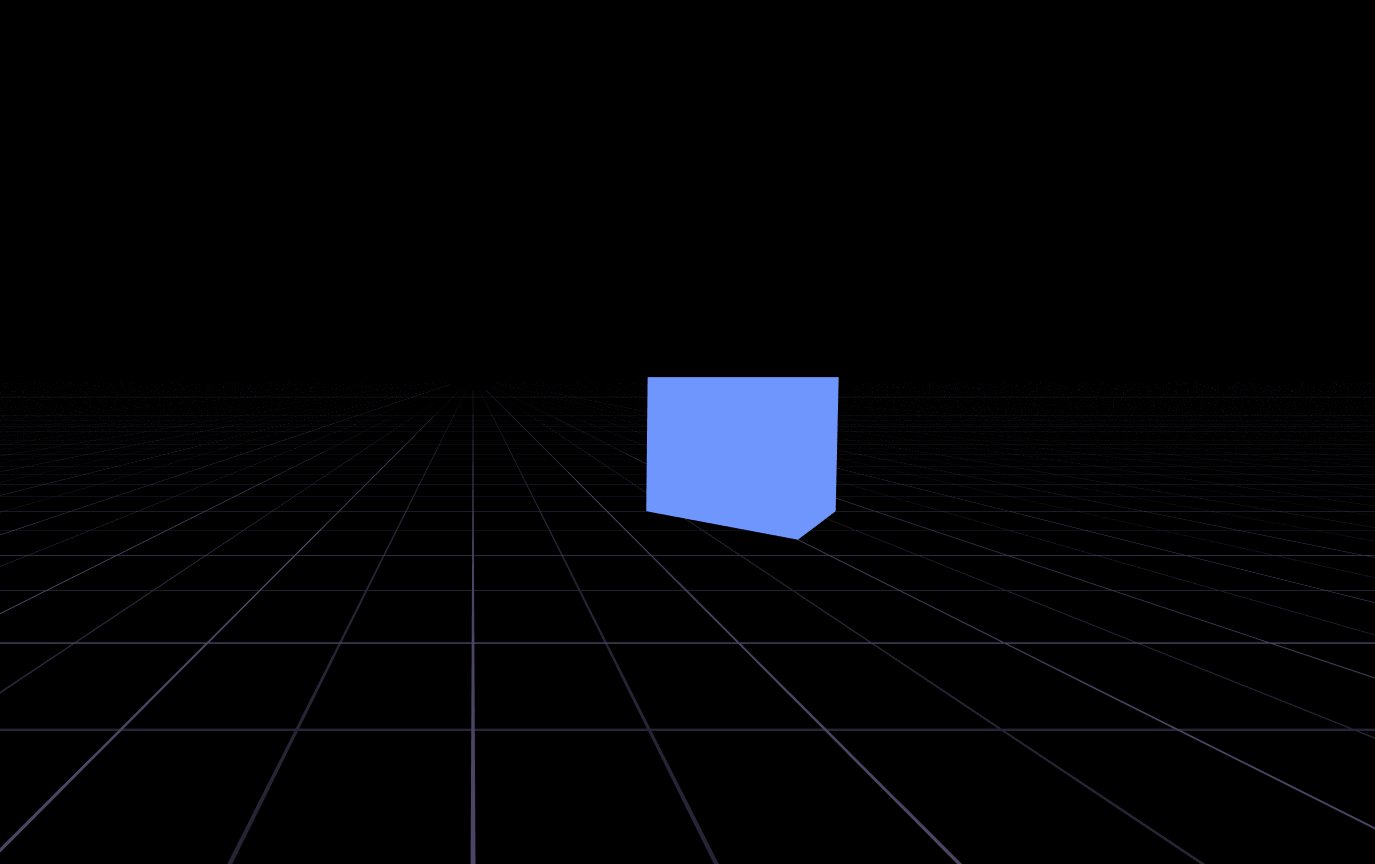
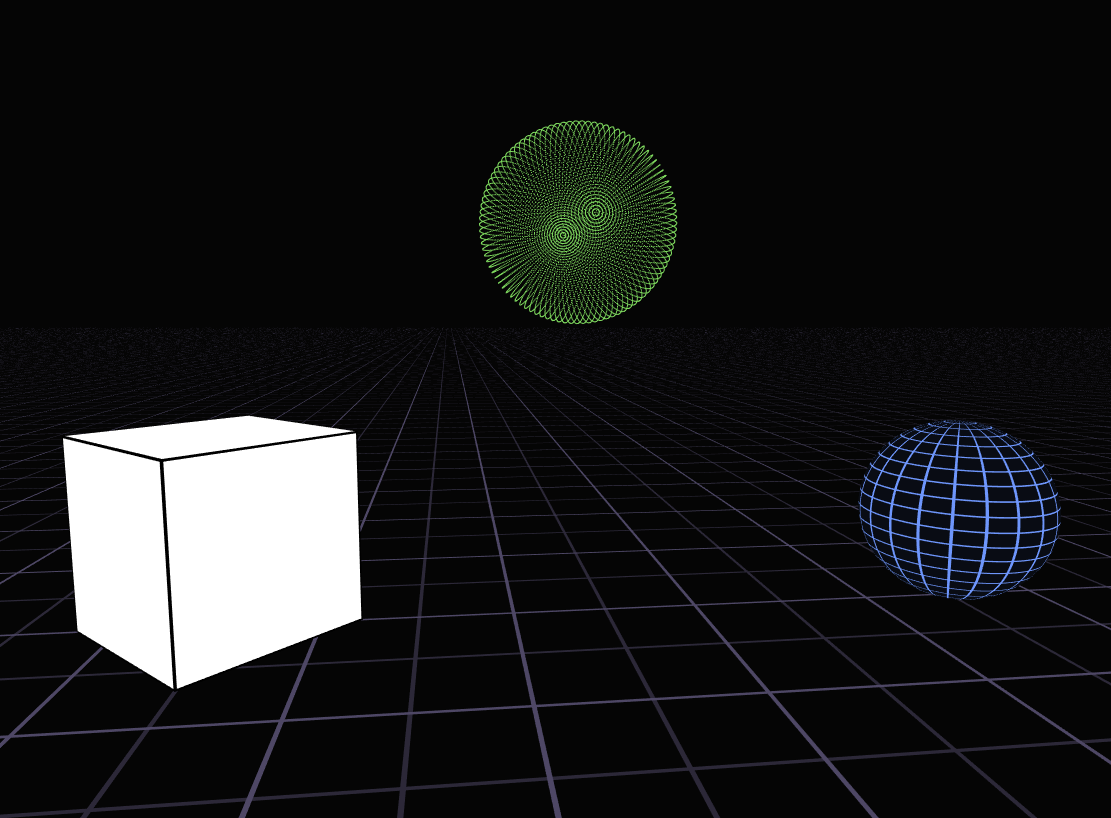
updated screenshot

diff --git a/examples/basic.cpp b/examples/basic.cpp
@@ -14,16 +14,6 @@ auto main(int argc, char* argv[]) -> int {
 		.position = {0, 1, 0},
 	});
 
-	OutlinedCube cube;
-
-	Sphere sphere1;
-	sphere1.setColor(BLUE * 0.08);
-
-	Sphere sphere2;
-	sphere2.setColor(GREEN);
-
-	Floor floor(PURPLE.setAlpha(0.3));
-
 	Material gridMaterial = gridMaterialTemplate.create(
 		{
 			.color = BLUE,
@@ -31,6 +21,16 @@ auto main(int argc, char* argv[]) -> int {
 			.lineThickness = 0.005,
 		},
 		{.transparency = false});
+
+	Sphere sphere1;
+	sphere1.setColor(BLUE * 0.08);
+
+	Sphere sphere2;
+	sphere2.setColor(GREEN);
+
+	OutlinedCube cube;
+
+	Floor floor(PURPLE.setAlpha(0.3));
 
 	window.caputureMouse(true);
 
@@ -42,10 +42,10 @@ auto main(int argc, char* argv[]) -> int {
 		cube.draw(renderer, {.yaw = M_PI / 4, .position = {-2.5, 0.5, -5}});
 
 		renderer.draw(sphere1,
-					  {.scale = 0.5, .pitch = M_PI / 2, .position = {1, 0.5, -3}},
+					  {.scale = 0.5, .pitch = M_PI / 2, .position = {1.5, 0.5, -5}},
 					  &gridMaterial);
 
-		renderer.draw(sphere2, {.position = {2, 3, -8}}, &pointMaterial);
+		renderer.draw(sphere2, {.position = {0, 2.5, -9}}, &pointMaterial);
 
 		floor.draw(renderer);
 

diff --git a/examples/shared.hpp b/examples/shared.hpp
@@ -94,12 +94,12 @@ struct Floor {
 		: m_mainGridMaterial(gridMaterialTemplate.create({
 			  .color = color,
 			  .lines = 1000,
-			  .lineThickness = 0.00001,
+			  .lineThickness = 0.00002,
 		  })),
 		  m_subGridMaterial(gridMaterialTemplate.create({
 			  .color = color * 0.8,
 			  .lines = 1000 * 2,
-			  .lineThickness = 0.00001,
+			  .lineThickness = 0.00002,
 		  })) {}
 
 	void draw(Renderer& renderer, float height = 0) {

diff --git a/include/ember/default_materials.hpp b/include/ember/default_materials.hpp
@@ -9,6 +9,8 @@
 
 namespace ember {
 
+// TODO: it should be more explicit and controlled by the user the creation of
+// default materials
 inline Material defaultMaterial({
 	.shaders = {"ember/default.frag.spv", "ember/default.vert.spv"},
 });
